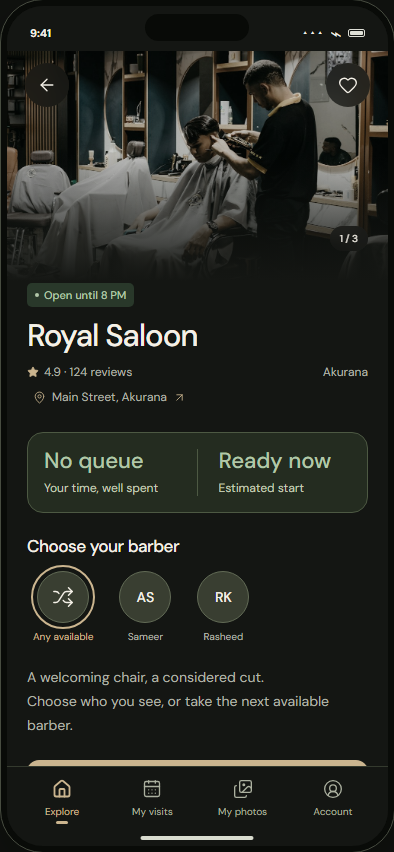
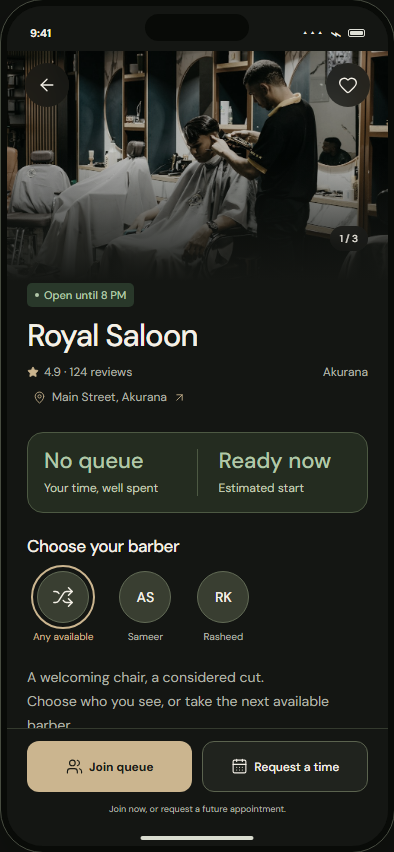
design: keep salon and booking actions visible

Changed region(s): [[0.0609, 0.8545, 0.9442, 0.9765]]

diff --git a/design/charcoal-champagne/preview.js b/design/charcoal-champagne/preview.js
@@ -26,7 +26,7 @@ const screens = {
 };
 function home(){return `<div class="app-header"><div class="location">${icon('map-pin')}<div><strong>Akurana ${icon('chevron-down')}</strong><span>Find a chair near you</span></div></div><div class="row">${I('qr-code','Scan salon QR')}<button class="avatar" data-screen="profile" aria-label="Your account">NH</button></div></div><h1 class="heading">Good hair.<br><span class="soft">Less waiting.</span></h1><label class="search">${icon('search')}<input id="salon-search" placeholder="Find your next salon" aria-label="Search salons"></label><div class="chips">${['All salons','No queue','Open now'].map(x=>`<button class="chip ${state.filter===x?'selected':''}" data-filter="${x}" aria-pressed="${state.filter===x}">${x}</button>`).join('')}</div><button class="feature" style="width:100%;text-align:left" data-screen="salon"><img src="${photo('salon')}" alt="Barber working in a warm, modern salon"><span class="feature-top">A LITTLE TIME FOR YOURSELF</span><div class="feature-content">${pill('No queue right now','light')}<h2>Your chair is ready.</h2><p>Royal Saloon · Akurana</p><span class="round-arrow">${icon('arrow-up-right')}</span></div></button><div class="section-label"><h2>Salons around you</h2><button data-action="filters">${icon('sliders-horizontal')}</button></div><div id="salon-results">${salonRows()}</div>`;}
 function salonRows(query=''){return [{name:'Royal Saloon',photo:'royal',tag:'No queue · Ready now',meta:'4.9 (124 reviews) · Akurana'},{name:'MrG Akurana',photo:'salon',tag:'3 waiting · About 45 min',meta:'4.8 (89 reviews) · Akurana'}].filter((s,i)=>(state.filter!=='No queue'||i===0)&&s.name.toLowerCase().includes(query.toLowerCase())).map(s=>`<button class="salon-card" data-screen="salon"><img src="${photo(s.photo)}" alt="${s.name} interior"><div><strong>${s.name}</strong><p>${s.meta}</p><span class="meta">${s.tag}</span></div>${icon('chevron-right')}</button>`).join('')||'<p class="empty-search">No salons match that search.</p>';}
-function salon(){return `<div class="photo-hero"><img src="${photo('salon')}" style="object-position:center 54%" alt="Royal Saloon haircut experience"><div class="photo-actions"><button class="icon-button transparent" data-screen="home" data-back aria-label="Back to discovery">${icon('arrow-left')}</button><button class="icon-button transparent" data-action="save-salon" aria-label="Save salon">${icon('heart')}</button></div><span class="photo-count">1 / 3</span></div><div class="detail-content">${pill('Open until 8 PM')}<h1 class="detail-title">Royal Saloon</h1><div class="rating">${icon('star')}<span>4.9 · 124 reviews</span><span style="margin-left:auto">Akurana</span></div><button class="address-link" data-action="directions">${icon('map-pin')}Main Street, Akurana ${icon('arrow-up-right')}</button><div class="availability"><div><strong>No queue</strong><span>Your time, well spent</span></div><div><strong>Ready now</strong><span>Estimated start</span></div></div><div class="section-label"><h2>Choose your barber</h2></div><div class="barber-choices">${[['Any available','shuffle',''],['Sameer','AS',''],['Rasheed','RK','']].map(([n,mark])=>`<button class="barber-choice ${state.barber===n?'selected':''}" data-barber="${n}" aria-pressed="${state.barber===n}"><span class="avatar">${mark==='shuffle'?icon('shuffle'):mark}</span>${n==='Any available'?'Any available':n}</button>`).join('')}</div><p class="description">A welcoming chair, a considered cut.<br>Choose who you see, or take the next available barber.</p><div class="cta-stack">${primary('Join the queue','join-sheet','users')}${secondary('Choose an appointment','calendar','calendar-days')}</div><p class="help-text">Join when you’re ready to come to the salon.<br>Haircut price is agreed at the salon, after the service.</p></div>`;}
+function salon(){return `<div class="photo-hero"><img src="${photo('salon')}" style="object-position:center 54%" alt="Royal Saloon haircut experience"><div class="photo-actions"><button class="icon-button transparent" data-screen="home" data-back aria-label="Back to discovery">${icon('arrow-left')}</button><button class="icon-button transparent" data-action="save-salon" aria-label="Save salon">${icon('heart')}</button></div><span class="photo-count">1 / 3</span></div><div class="detail-content">${pill('Open until 8 PM')}<h1 class="detail-title">Royal Saloon</h1><div class="rating">${icon('star')}<span>4.9 · 124 reviews</span><span style="margin-left:auto">Akurana</span></div><button class="address-link" data-action="directions">${icon('map-pin')}Main Street, Akurana ${icon('arrow-up-right')}</button><div class="availability"><div><strong>No queue</strong><span>Your time, well spent</span></div><div><strong>Ready now</strong><span>Estimated start</span></div></div><div class="section-label"><h2>Choose your barber</h2></div><div class="barber-choices">${[['Any available','shuffle',''],['Sameer','AS',''],['Rasheed','RK','']].map(([n,mark])=>`<button class="barber-choice ${state.barber===n?'selected':''}" data-barber="${n}" aria-pressed="${state.barber===n}"><span class="avatar">${mark==='shuffle'?icon('shuffle'):mark}</span>${n==='Any available'?'Any available':n}</button>`).join('')}</div><p class="description">A welcoming chair, a considered cut.<br>Choose who you see, or take the next available barber.</p><p class="help-text" style="text-align:left">Haircut price is agreed at the salon, after the service.</p></div>`;}
 function calendar(){const dates=Array.from({length:6},()=>'<span></span>').join('')+Array.from({length:30},(_,i)=>{const d=i+1;return `<button class="${d===state.day?'selected ':''}${d===5?'today ':''}${d>=5?'available':''}" data-day="${d}" ${d<5?'disabled':''} aria-label="Select November ${d}" aria-pressed="${d===state.day}">${d}</button>`;}).join('');return `${header('Request an appointment','salon')}<h1 class="heading" style="margin-bottom:9px">Make time<br><span class="soft">for yourself.</span></h1><p class="subheading">Royal Saloon · ${state.barber}</p><div class="calendar-header"><h3>November 2026</h3><div class="row"><button disabled aria-label="Previous month">${icon('chevron-left')}</button><button data-action="next-month" aria-label="Next month">${icon('chevron-right')}</button></div></div><div class="calendar">${['M','T','W','T','F','S','S'].map(x=>`<span class="weekday">${x}</span>`).join('')}${dates}</div><div class="section-label"><h2>Available times</h2><span class="slot-label">Sri Lanka time</span></div><span class="slot-label">Morning</span><div class="slots">${['10:30 AM','11:00 AM','11:30 AM'].map((x,i)=>`<button class="slot ${state.time===x?'selected':''}" data-time="${x}" ${i===0?'disabled aria-label="10:30 AM unavailable"':''}>${x}</button>`).join('')}</div><span class="slot-label">Afternoon</span><div class="slots">${['12:00 PM','12:30 PM','2:00 PM'].map(x=>`<button class="slot ${state.time===x?'selected':''}" data-time="${x}">${x}</button>`).join('')}</div><button class="reference-preview" style="width:100%;text-align:left" data-action="choose-reference">${icon('images')}<div><b>${state.selectedReference?'Classic details attached':'Add haircut photos'}</b><p>Optional · Show your barber what you have in mind</p></div>${icon('plus')}</button>`;}
 function ticket(){return `${header('Your queue','home')}<div class="ticket-heading"><div class="round-icon">${icon('scissors')}</div><h1>You’re in. We’ll take it from here.</h1><p>Your chair will be ready soon.</p></div><div class="ticket"><span class="ticket-label">YOUR VISIT CODE</span><div class="visit-code">482 619</div><div class="tear"></div><div class="row between"><h2>Royal Saloon</h2><span style="font-size:10px;background:#d9e2cd;padding:5px 8px;border-radius:5px">Waiting</span></div><p>Main Street, Akurana</p><p style="margin-top:9px">Barber · ${state.barber}</p><div class="ticket-bottom"><div><b>You’re next</b><span>0 people ahead</span></div><div><b>Ready now</b><span>Estimated start</span></div></div></div><div class="notice">${icon('info')}<span>Show your code when you arrive. Your barber will verify it, start your haircut and take care of the rest.</span></div>${secondary('Directions to the salon','directions','map-pin')}<button class="small-link" style="display:block;margin:12px auto" data-action="cancel-queue">Cancel my place</button>`;}
 function visits(){return `<div class="app-header"><span class="eyebrow">YOUR TIME, BOOKED</span>${I('calendar-days','Calendar')}</div><h1 class="heading">My visits.</h1><div class="split-tabs"><button class="selected" data-action="upcoming">Upcoming</button><button data-action="past">Past</button></div>${state.joined?`<article class="visit"><div class="row between">${pill('In the queue')}<span style="font-size:10px;color:var(--muted)">TODAY</span></div><h3>Royal Saloon</h3><p>Ready now · ${state.barber}</p><div class="visit-footer"><span style="font-size:14px;letter-spacing:3px">482 619</span><button class="small-link" data-screen="ticket">View my queue →</button></div></article>`:''}<article class="visit"><div class="row between">${pill('Awaiting confirmation','neutral')}${icon('calendar-days')}</div><h3>Royal Saloon</h3><p>Thu, November ${state.day} · ${state.time}</p><p>${state.barber} · Appointment request</p><div class="visit-footer"><span style="font-size:10px;color:var(--muted)">We’ll let you know when it’s confirmed.</span></div><button class="small-link" data-action="booking-detail">View appointment →</button></article><div class="notice">${icon('info')}<span>Appointment requests need salon confirmation. Joining a queue is a separate visit for when you’re coming now.</span></div><div class="photo-banner"><img src="${photo('barber')}" alt="Barber at work"><div><b>A fresh start feels good.</b><p>Keep your haircut ideas close.</p></div></div><button class="small-link" data-screen="gallery">Explore your haircut collections →</button>`;}
@@ -36,11 +36,11 @@ function owner(){return `<div class="app-header"><button class="owner-top" data-
 function team(){return `${header('Royal Saloon','owner',`<button class="icon-button" data-action="add-barber" aria-label="Add barber">${icon('plus')}</button>`)}<h1 class="heading">Good people.<br><span class="soft">Great haircuts.</span></h1><p class="subheading">Your team, connected to their own chair.</p><div class="split-tabs"><button class="selected" data-action="team-tab">Team · 3</button><button data-action="invitations-tab">Invitations · 1</button></div>${[['AS','Sameer','Available','Connected to their chair'],['RK','Rasheed','Busy','Connected to their chair'],['IM','Imran','Invite ready','Waiting to join the salon']].map(([initial,name,status,note])=>`<article class="member"><div class="row"><span class="avatar">${initial}</span><div style="flex:1"><strong style="font-size:14px;font-weight:500">${name}</strong><p style="font-size:10px;color:var(--muted);margin-top:5px">${note}</p></div>${pill(status,status==='Available'?'':'neutral')}</div><div class="member-footer"><button data-action="barber-profile">Edit profile</button><button class="${status==='Invite ready'?'filled':''}" data-action="${status==='Invite ready'?'invite-barber':'sameer-performance'}">${status==='Invite ready'?'Share invitation':'Performance →'}</button></div></article>`).join('')}<div style="margin-top:19px">${secondary('Add a barber','add-barber','plus')}</div><p class="help-text">Each barber uses their own login.<br>Their chair stays connected to this salon.</p>`;}
 function barber(){return `<div class="app-header"><div class="row"><span class="avatar">AS</span><div class="owner-top">ROYAL SALOON<b>Sameer’s chair</b></div></div><button class="status-toggle" data-action="barber-status">${state.started?'Busy':state.status}${icon('chevron-down')}</button></div><h1 class="owner-title">${state.completed?'A good cut.\nA happy customer.':state.started?'A little craft.\nA lot of care.':'Your next customer\nis right here.'}</h1><p class="subheading">${state.started?'Haircut in progress':state.completed?'The haircut is complete.':'Thursday, 5 November'}</p><div class="barber-stats"><div><b>${state.started?2:3}</b><span>In your queue</span></div><div><b>${state.completed?5:4}</b><span>Haircuts today</span></div><div><b>4.9</b><span>Your rating</span></div></div><div class="section-label"><h2>${state.started?'In your chair':state.completed?'Ready for the next?':'Next in your chair'}</h2>${pill(state.started?'In service':state.completed?'Completed':'Waiting',state.started?'neutral':'')}</div><div class="next-client"><div class="row"><span class="avatar champagne">NH</span><div><h3 class="client-title" style="margin:0">Naveen Hasan</h3><p style="font-size:10px;color:var(--muted);margin-top:5px">Joined 4 minutes ago</p></div></div><div class="code-small">VISIT CODE · 482 619</div><button class="reference-preview" style="width:100%;text-align:left" data-action="customer-reference"><img src="${photo('barber')}" alt="Shared haircut reference"><div><b>Classic details</b><p>2 photos from the customer</p></div>${icon('chevron-right')}</button>${state.started?`${primary('Finish haircut','finish-sheet','check')}<p class="help-text">Enter the agreed final price when you finish.</p>`:state.completed?`${primary('Next customer','next-customer','arrow-right')}`:`${primary('Verify customer code','verify-code','scan-line')}<p class="help-text">Check their six-digit code before starting.</p>`}</div><div class="section-label"><h2>Coming up</h2><span class="slot-label">2 customers</span></div><div class="team-row"><span class="avatar small">FA</span><div class="grow"><strong>Fahim Ali</strong><p>Joined 2 minutes ago</p></div><span style="font-size:11px;color:var(--muted)">#2</span></div><button class="small-link" data-action="barber-status">Take a break →</button>`;}
 const renderers={home,salon,calendar,ticket,visits,gallery,profile,owner,team,barber};
-function nav(screen=state.screen){if(screen==='calendar')return `<div class="booking-footer"><div class="booking-selection"><b>Nov ${state.day} · ${state.time}</b><span>Salon confirmation required</span></div>${primary('Request appointment','request-booking')}</div>`;const role=screens[screen].role;const items=role==='owner'?[['owner','chart-no-axes-combined','Overview'],['team','users','Team'],['owner','wallet','Finance'],['profile','circle-user-round','Account']]:role==='barber'?[['barber','scissors','My chair'],['calendar','calendar-days','Requests'],['profile','circle-user-round','Profile']]:[['home','house','Explore'],['visits','calendar-days','My visits'],['gallery','images','My photos'],['profile','circle-user-round','Account']];return items.map(([id,ico,label],i)=>`<button data-screen="${id}" class="${(id===screen||(id==='home'&&['salon','calendar'].includes(screen))||(id==='visits'&&screen==='ticket'))&&(i<2||role==='customer')?'selected':''}" aria-label="${label}">${icon(ico)}<span>${label}</span></button>`).join('');}
+function nav(screen=state.screen){if(screen==='salon')return `<div class="detail-footer"><div class="detail-actions">${primary('Join queue','join-sheet','users')}${secondary('Request a time','calendar','calendar-days')}</div><p>Join now, or request a future appointment.</p></div>`;if(screen==='calendar')return `<div class="booking-footer"><div class="booking-selection"><b>Nov ${state.day} · ${state.time}</b><span>Salon confirmation required</span></div>${primary('Request appointment','request-booking')}</div>`;const role=screens[screen].role;const items=role==='owner'?[['owner','chart-no-axes-combined','Overview'],['team','users','Team'],['owner','wallet','Finance'],['profile','circle-user-round','Account']]:role==='barber'?[['barber','scissors','My chair'],['calendar','calendar-days','Requests'],['profile','circle-user-round','Profile']]:[['home','house','Explore'],['visits','calendar-days','My visits'],['gallery','images','My photos'],['profile','circle-user-round','Account']];return items.map(([id,ico,label],i)=>`<button data-screen="${id}" class="${(id===screen||(id==='home'&&['salon','calendar'].includes(screen))||(id==='visits'&&screen==='ticket'))&&(i<2||role==='customer')?'selected':''}" aria-label="${label}">${icon(ico)}<span>${label}</span></button>`).join('');}
 function content(id){return `<article class="page ${id==='salon'?'full-bleed':''}" data-page="${id}" aria-label="${screens[id].name}">${renderers[id]()}</article>`;}
 function navigate(id,{back=false,animate=true}={}){if(!screens[id])return;closeSheet();const viewport=$('#viewport'),old=viewport.lastElementChild;for(const child of [...viewport.children])if(child!==old)child.remove();if(old){old.getAnimations().forEach(a=>a.cancel());old.classList.remove('entering','exiting');}state.screen=id;state.role=screens[id].role;const next=document.createElement('div');next.innerHTML=content(id);const page=next.firstElementChild;const version=++animationVersion;
   viewport.appendChild(page);if(old&&animate&&!reducedMotion){old.classList.add('exiting');page.classList.add('entering');old.style.pointerEvents='none';const dir=back?-1:1;old.animate([{opacity:1,transform:'translateX(0)'},{opacity:.25,transform:`translateX(${-dir*22}%)`}],{duration:260,easing:'cubic-bezier(.22,1,.36,1)',fill:'forwards'});page.animate([{opacity:.5,transform:`translateX(${dir*30}%)`},{opacity:1,transform:'translateX(0)'}],{duration:300,easing:'cubic-bezier(.22,1,.36,1)'}).finished.then(()=>{if(version===animationVersion){old.remove();page.classList.remove('entering');}else if(old.isConnected)old.remove();}).catch(()=>{});}else{old?.remove();page.classList.remove('entering');}
-  $('#bottom-nav').innerHTML=nav(id);$('#bottom-nav').classList.toggle('is-booking',id==='calendar');viewport.classList.toggle('booking-view',id==='calendar');viewport.scrollTop=0;$('#phone').scrollTop=0;$('#note-title').textContent=screens[id].title;$('#note-body').textContent=screens[id].note;document.querySelectorAll('.role-tabs button').forEach(b=>{b.classList.toggle('selected',b.dataset.role===state.role);b.setAttribute('aria-pressed',b.dataset.role===state.role);});$('#screen-list').innerHTML=Object.entries(screens).filter(([,s])=>s.role===state.role).map(([key,s],i)=>`<button data-screen="${key}" class="${key===id?'selected':''}" aria-current="${key===id?'page':'false'}"><span>0${i+1}</span>${s.name}</button>`).join('');$('#live-note').textContent=`${screens[id].name} preview`;}
+  $('#bottom-nav').innerHTML=nav(id);$('#bottom-nav').classList.toggle('is-booking',id==='calendar');$('#bottom-nav').classList.toggle('is-visit',id==='salon');viewport.classList.toggle('booking-view',id==='calendar');viewport.classList.toggle('visit-view',id==='salon');viewport.scrollTop=0;$('#phone').scrollTop=0;$('#note-title').textContent=screens[id].title;$('#note-body').textContent=screens[id].note;document.querySelectorAll('.role-tabs button').forEach(b=>{b.classList.toggle('selected',b.dataset.role===state.role);b.setAttribute('aria-pressed',b.dataset.role===state.role);});$('#screen-list').innerHTML=Object.entries(screens).filter(([,s])=>s.role===state.role).map(([key,s],i)=>`<button data-screen="${key}" class="${key===id?'selected':''}" aria-current="${key===id?'page':'false'}"><span>0${i+1}</span>${s.name}</button>`).join('');$('#live-note').textContent=`${screens[id].name} preview`;}
 function refresh(){const page=$('#viewport .page:last-child'),top=page?.scrollTop||0;navigate(state.screen,{animate:false});$('#viewport .page').scrollTop=top;}
 function closeSheet(){const overlay=$('#overlay-root');if(overlay)overlay.innerHTML='';if(previousFocus?.isConnected)previousFocus.focus({preventScroll:true});previousFocus=null;}
 function sheet(title,sub,body){closeSheet();previousFocus=document.activeElement;$('#overlay-root').innerHTML=`<div class="overlay" data-backdrop><section class="sheet" role="dialog" aria-modal="true" aria-label="${title}" tabindex="-1"><div class="sheet-handle"></div><div class="sheet-header"><div><h2>${title}</h2>${sub?`<p>${sub}</p>`:''}</div><button class="icon-button" data-action="close-sheet" aria-label="Close">${icon('x')}</button></div>${body}</section></div>`;$('#overlay-root .sheet').focus({preventScroll:true});}
@@ -109,7 +109,7 @@ const actions={
   'help':()=>toast('Help and support opens here in the finished app.'),
   'sign-out':()=>toast('This is a design preview. No account is signed in.'),
 };
-function showBoard(show){$('#studio').hidden=show;$('#board').hidden=!show;$('#board-toggle').textContent=show?'Interactive preview ↗':'View all screens ↗';if(show){const ids=['home','salon','calendar','ticket','gallery','owner','team','barber'];$('#board-grid').innerHTML=ids.map((id,i)=>`<article class="board-cell" data-board-screen="${id}" tabindex="0" role="button" aria-label="Open ${screens[id].name} preview"><div class="board-label"><span>0${i+1}</span><b>${screens[id].name}</b><span style="margin-left:auto">${screens[id].role==='owner'?'MANAGER':screens[id].role.toUpperCase()}</span></div><div class="board-shell"><div class="phone"><div class="system-bar"><strong>9:41</strong><span class="island"></span><span class="system-icons">▴▴▴ ⌁ <i></i></span></div><div class="viewport ${id==='calendar'?'booking-view':''}">${content(id)}</div><nav class="bottom-nav ${id==='calendar'?'is-booking':''}">${nav(id)}</nav><div class="home-indicator"></div></div></div></article>`).join('');sizeBoard();}window.scrollTo({top:0,behavior:'instant'});}
+function showBoard(show){$('#studio').hidden=show;$('#board').hidden=!show;$('#board-toggle').textContent=show?'Interactive preview ↗':'View all screens ↗';if(show){const ids=['home','salon','calendar','ticket','gallery','owner','team','barber'];$('#board-grid').innerHTML=ids.map((id,i)=>`<article class="board-cell" data-board-screen="${id}" tabindex="0" role="button" aria-label="Open ${screens[id].name} preview"><div class="board-label"><span>0${i+1}</span><b>${screens[id].name}</b><span style="margin-left:auto">${screens[id].role==='owner'?'MANAGER':screens[id].role.toUpperCase()}</span></div><div class="board-shell"><div class="phone"><div class="system-bar"><strong>9:41</strong><span class="island"></span><span class="system-icons">▴▴▴ ⌁ <i></i></span></div><div class="viewport ${id==='calendar'?'booking-view':id==='salon'?'visit-view':''}">${content(id)}</div><nav class="bottom-nav ${id==='calendar'?'is-booking':id==='salon'?'is-visit':''}">${nav(id)}</nav><div class="home-indicator"></div></div></div></article>`).join('');sizeBoard();}window.scrollTo({top:0,behavior:'instant'});}
 function sizeBoard(){document.querySelectorAll('.board-shell').forEach(shell=>{shell.querySelector('.phone').style.transform=`scale(${shell.clientWidth/393})`;});}
 document.addEventListener('click',e=>{const button=e.target.closest('button,a,[data-photo],[data-board-screen],.large-photo');if(!button)return;if(button.closest('#board-grid')&&button.dataset.boardScreen===undefined){const cell=button.closest('[data-board-screen]');if(cell){showBoard(false);navigate(cell.dataset.boardScreen);return;}}if(button.dataset.screen){e.preventDefault();navigate(button.dataset.screen,{back:button.hasAttribute('data-back')});return;}if(button.dataset.role){navigate({customer:'home',owner:'owner',barber:'barber'}[button.dataset.role]);return;}if(button.dataset.action){actions[button.dataset.action]?.();return;}if(button.dataset.filter){state.filter=button.dataset.filter;refresh();return;}if(button.dataset.barber){state.barber=button.dataset.barber;refresh();return;}if(button.dataset.day){state.day=Number(button.dataset.day);refresh();return;}if(button.dataset.time){state.time=button.dataset.time;refresh();return;}if(button.dataset.deck){collectionView(Number(button.dataset.deck));return;}if(button.dataset.photo){fullPhoto(button.dataset.photo);return;}if(button.dataset.status){state.status=button.dataset.status;closeSheet();refresh();return;}if(button.dataset.chartDay){const i=Number(button.dataset.chartDay),counts=[6,9,7,8,0,0,0];$('#chart-value').textContent=`${['Monday','Tuesday','Wednesday','Thursday','Friday','Saturday','Sunday'][i]} · ${counts[i]} completed haircuts`;return;}if(button.dataset.period){const parent=button.parentElement;parent.querySelectorAll('button').forEach(b=>b.classList.toggle('selected',b===button));toast(`${button.dataset.period}: sample figures shown for the visual concept.`);return;}if(button.dataset.stars){button.parentElement.querySelectorAll('button').forEach((b,i)=>b.style.color=i<Number(button.dataset.stars)?'var(--accent)':'var(--muted)');return;}if(button.hasAttribute('data-reset')){state={...state,joined:false,started:false,completed:false,earned:12400,status:'Available',selectedReference:false};navigate('home');return;}if(button.dataset.boardScreen){showBoard(false);navigate(button.dataset.boardScreen);}});
 document.addEventListener('input',e=>{if(e.target.id==='salon-search')$('#salon-results').innerHTML=salonRows(e.target.value);});

diff --git a/design/charcoal-champagne/refinements.css b/design/charcoal-champagne/refinements.css
@@ -23,3 +23,11 @@
 .board-shell .page{scrollbar-width:none}
 .phone .sheet .primary{font-size:14px}
 .page-titlebar{position:sticky;top:0;z-index:3;background:var(--bg)}
+.bottom-nav.is-visit{display:block;height:103px;padding:12px 20px;background:var(--bg)}
+.viewport.visit-view{bottom:118px}
+.detail-footer .detail-actions{display:grid;grid-template-columns:1fr 1fr;gap:10px}
+.detail-footer .primary,.detail-footer .secondary{display:flex;flex-direction:row;gap:6px;min-height:51px;padding:10px;font-size:12px}
+.detail-footer .primary{color:var(--ink);font-weight:700}
+.detail-footer .secondary{color:var(--text)}
+.detail-footer button:after{display:none}
+.detail-footer p{font-size:9px;text-align:center;color:var(--muted);margin-top:10px}

diff --git a/design/charcoal-champagne/README.md b/design/charcoal-champagne/README.md
@@ -31,7 +31,7 @@ Preserved product rules: no service catalogue or upfront prices, queue separate 
 - Background `#141613`; surfaces `#20231E` / `#2A2E26`; text `#F4F0E7`; muted text `#B1B4A8`; champagne `#CBB58F`; status sage `#B2C7A9`.
 - Existing DM Sans, with clearer hierarchy and larger supporting text. Real photos provide character without neon edges or glowing controls.
 - Page navigation: approximately 280–300 ms, directional horizontal movement and a restrained fade. Sheet entrance: 360 ms from the bottom. Pressed controls respond immediately.
-- Fixed booking summary/CTA. Disabled taken times. Scrollable screen content, persistent navigation, keyboard focus indicators and dialog focus trapping.
+- Fixed salon queue/appointment actions and booking summary/CTA. Disabled taken times. Scrollable screen content, persistent navigation, keyboard focus indicators and dialog focus trapping.
 - Reduced-motion OS preference and an explicit preview Motion switch. No autoplay backgrounds, particle effects or continuous decorative animation.
 
 ## Validation
